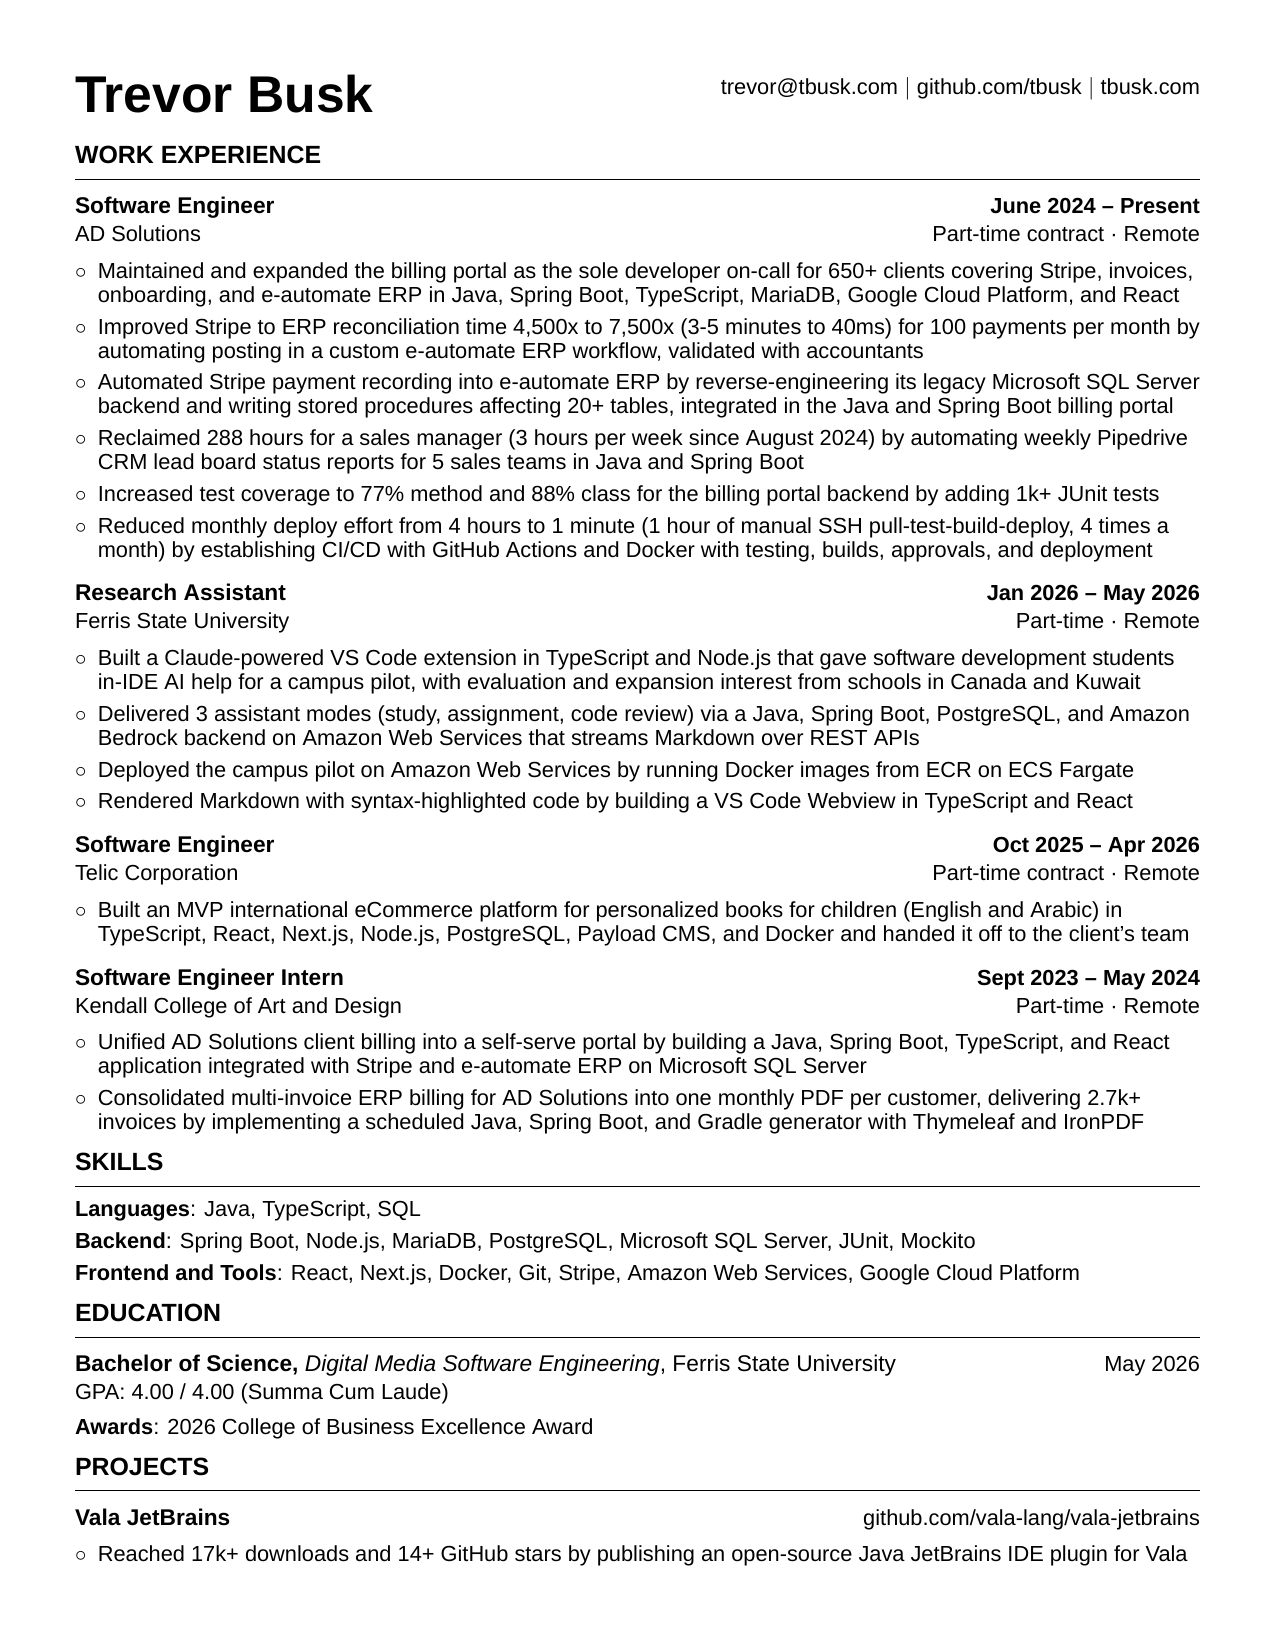
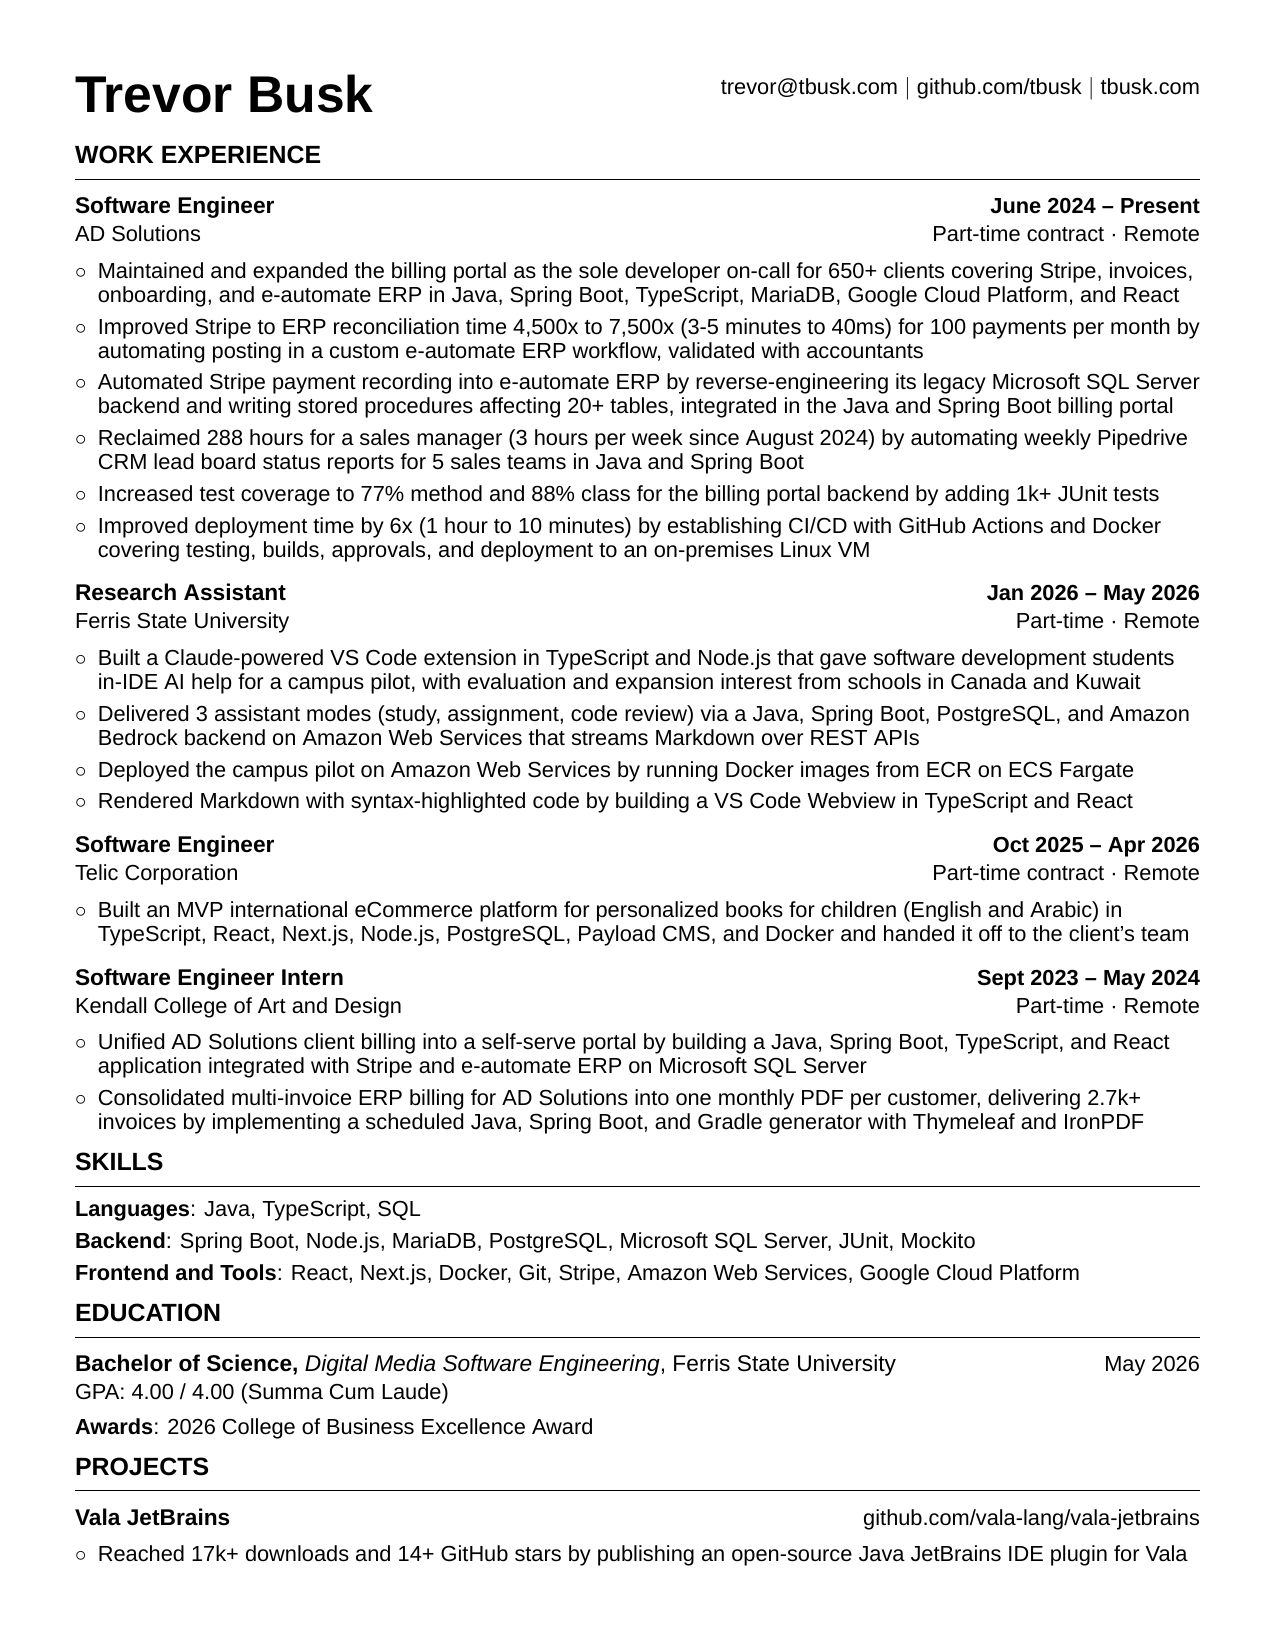
change: improve metrics in ads bullet

Changed region(s): [[0.0612, 0.3091, 0.9176, 0.34]]

diff --git a/Resume.tex b/Resume.tex
@@ -96,7 +96,7 @@
         \rPlainItem{Automated Stripe payment recording into e-automate ERP by reverse-engineering its legacy Microsoft SQL Server backend and writing stored procedures affecting 20+ tables, integrated in the Java and Spring Boot billing portal}
         \rPlainItem{Reclaimed 288 hours for a sales manager (3 hours per week since August 2024) by automating weekly Pipedrive CRM lead board status reports for 5 sales teams in Java and Spring Boot}
         \rPlainItem{Increased test coverage to 77\% method and 88\% class for the billing portal backend by adding 1k+ JUnit tests}
-        \rPlainItem{Reduced monthly deploy effort from 4 hours to 1 minute (1 hour of manual SSH pull-test-build-deploy, 4 times a month) by establishing CI/CD with GitHub Actions and Docker with testing, builds, approvals, and deployment}
+        \rPlainItem{Improved deployment time by 6x (1 hour to 10 minutes) by establishing CI/CD with GitHub Actions and Docker covering testing, builds, approvals, and deployment to an on-premises Linux VM}
     \rListEndCircle
 
     \rGeneralHeading{Research Assistant}{Jan 2026 -- May 2026}{Ferris State University}{Part-time · Remote}
